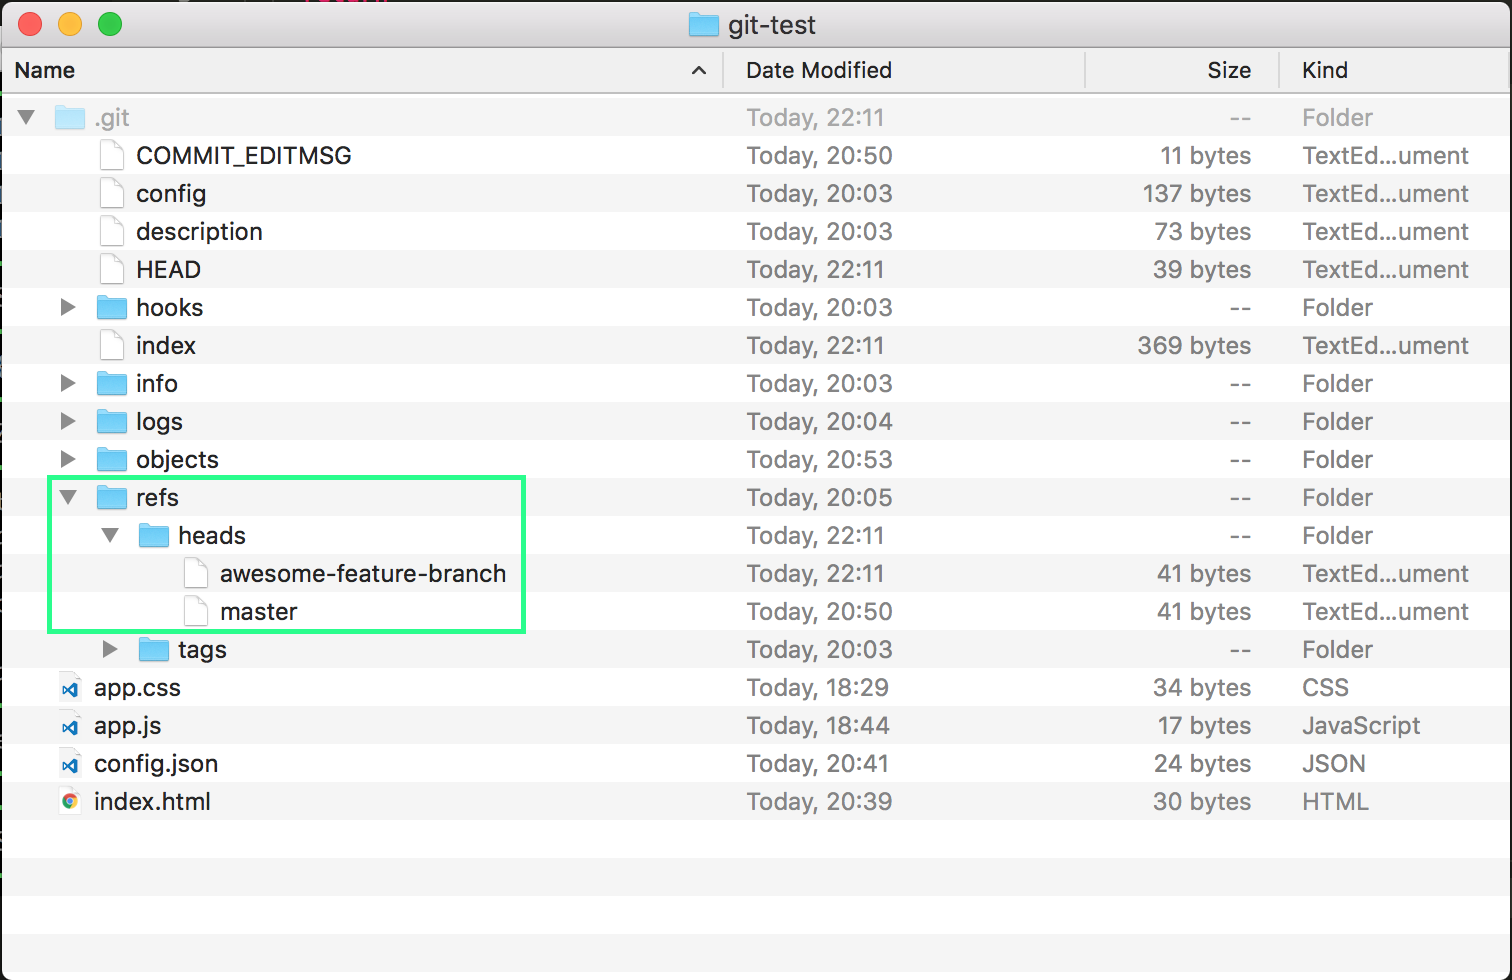
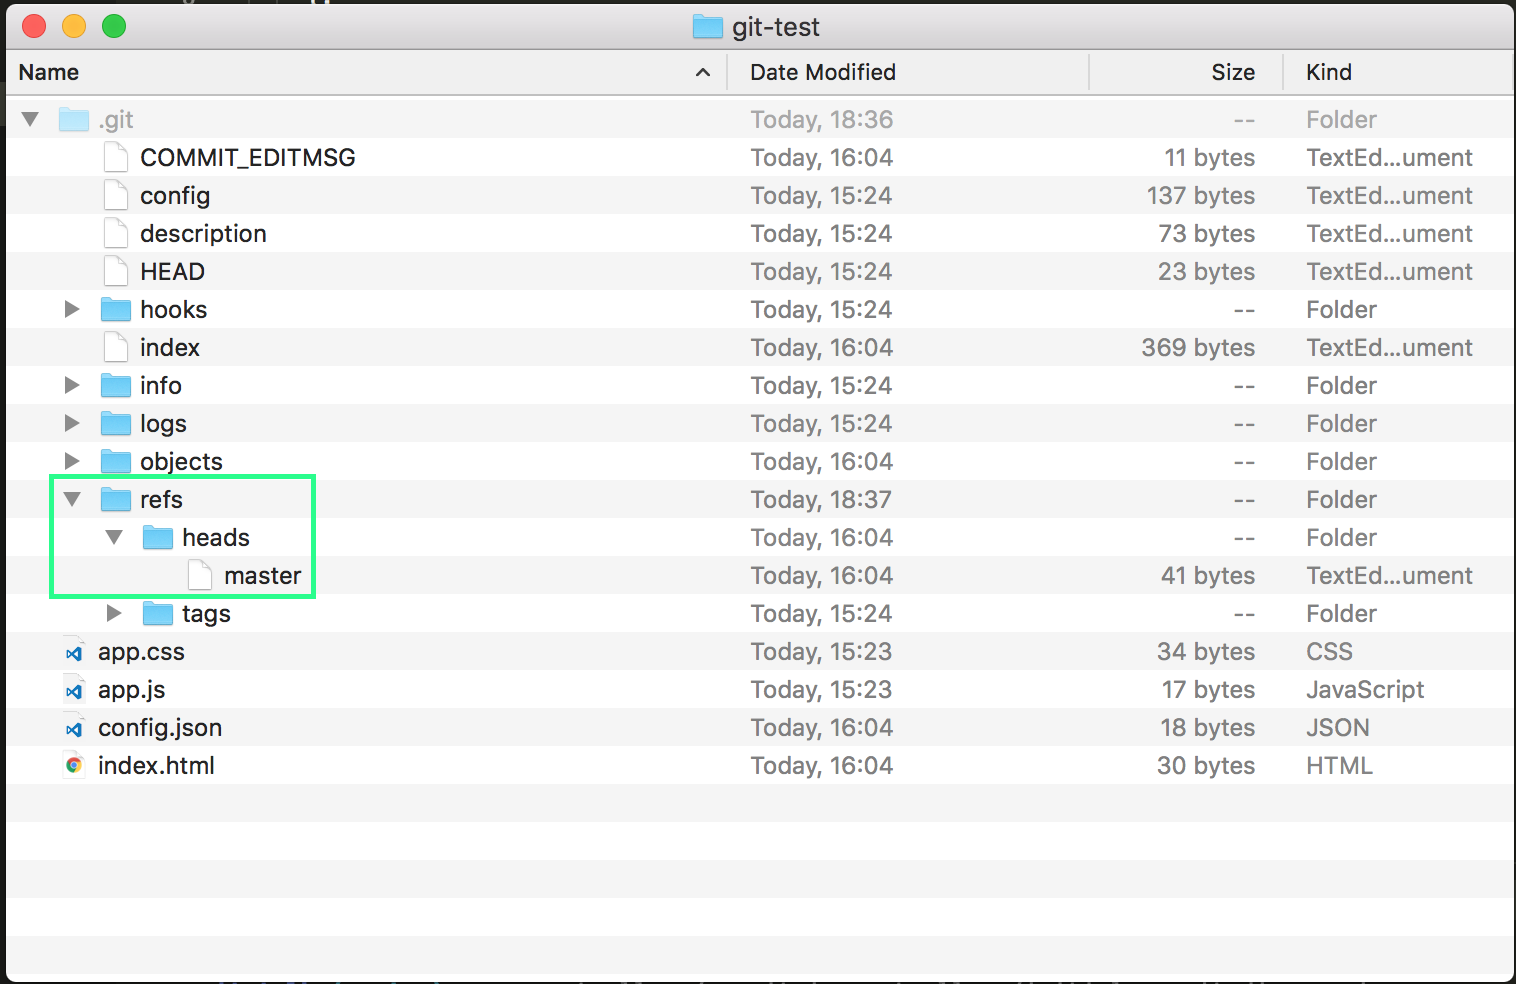
disclaimer

diff --git a/controllers/second-commit.js b/controllers/second-commit.js
@@ -1,0 +1,63 @@
+import Terminal from '../terminal.js';
+
+export default class SecondCommitController {
+
+  constructor() {
+    this.keyEvents = {
+      'ls': this.ls.bind(this),
+      'git status': this.gitStatus.bind(this),
+      'git commit -m': this.commit.bind(this),
+      'git cat-file -p': this.catFile.bind(this),
+      'cat .git/refs/heads/master': this.cat.bind(this),
+    };
+    this.terminal = new Terminal(this.keyEvents);
+    this.keyEvents['git add .'] = this.terminal.showPrompt.bind(this.terminal);
+  }
+
+  ls() {
+    this.terminal.echo(`app.css
+app.js
+config.json
+index.html`);
+  }
+
+  gitStatus() {
+    this.terminal.echo(`On branch master
+Changes not staged for commit:
+  (use "git add <file>..." to update what will be committed)
+  (use "git checkout -- <file>..." to discard changes in working directory)
+
+	<span class="untracked-files">modified:   index.html</span>
+
+Untracked files:
+  (use "git add <file>..." to include in what will be committed)
+
+	<span class="untracked-files">config.json</span>
+
+no changes added to commit (use "git add" and/or "git commit -a")`);
+  }
+
+  commit() {
+    this.terminal.echo(`[master <span class="highlight-pink">e47b459</span>] add config
+ 2 files changed, 2 insertions(+)
+ create mode 100644 config.json`);
+  }
+
+  catFile() {
+    this.terminal.echo(`tree d2310568deb2dd2ce088ac4c83d33dd6335f60d2
+<span class="highlight">parent 28fb86e94befa9a40fddfb0e9ee553ffa6fd0</span>
+author erinz <erin.zimmer@auspost.com.au> 1501930205 +1000
+committer erinz <erin.zimmer@auspost.com.au> 1501930205 +1000
+
+add config`);
+  }
+
+  cat() {
+    this.terminal.echo('e47b4596ba0374e87fd88c2fc46bc4c461e3e383');
+  }
+
+
+  static getTemplate() {
+    return `<div class="terminal"></div>`;
+  }
+}

diff --git a/styles.css b/styles.css
@@ -28,7 +28,8 @@ em {
 }
 
 img {
-  width: 100%;
+  max-width: 100vh;
+  max-height: 75vh;
 }
 
 ol {
@@ -42,24 +43,25 @@ ol {
   border: 2px solid #f2d;
 }
 
-li img {
-  margin-top: 40px;
+.disclaimer {
+  font-size: 2em;
+  border: 4px solid currentColor;
+  padding: 10px;
+  margin: auto;
+  animation: 5s flicker linear forwards;
 }
-
-ol.source-control {
-  position: relative;
-}
-
-li#save {
-  top: 0;
-  position: absolute;
-  transition: top 1s ease-in;
-}
-
-li#collaborate {
-  top: 1000px;
-  position: absolute;
-  transition: top 1s ease-out;
+@keyframes flicker {
+  0%, 10%, 18%, 40%, 90%, 100% {
+    opacity: .99;
+    text-shadow: 2px 2px 5px #0f8, -2px -2px 5px #0f8;
+    box-shadow: 2px 2px 5px #0f8, -2px -2px 5px #0f8,
+                inset 2px 2px 5px #0f8, inset -2px -2px 5px #0f8; 
+  }
+  3%, 17%, 35%, 87%, 99% {
+    opacity: 0.4;
+    text-shadow: none;
+    box-shadow: none;
+  }
 }
 
 .folder {
@@ -68,7 +70,7 @@ li#collaborate {
   background-size: contain;
   background-repeat: no-repeat;
   margin-top: 20px;
-  padding-top: 63%;
+  padding-top: 70vh;
   height: 0;
   position: relative;
   opacity: 0;
@@ -87,8 +89,8 @@ li#collaborate {
   opacity: 0.25;
 }
 
-.folder.colour-in::before {
-  display: block;
+.folder.colour-in {
+  box-shadow: inset 0 0 1000px #0f8;
 }
 
 .folder-label {
@@ -303,15 +305,14 @@ li#collaborate {
 }
 
 .slide-up-ready {
-  position: relative;
-  top: 100vh;
+  margin-top: 100vh;
 }
 .slide-up-animation {
   animation: 1s slide-up ease-out forwards;
 }
 @keyframes slide-up {
   to {
-    top: 0;
+    margin-top: 0;
   }
 }
 

diff --git a/controllers/checkout.js b/controllers/checkout.js
@@ -6,6 +6,22 @@ export default class Checkout {
     this.keyEvents = {
       'git checkout -b': this.checkout.bind(this),
     };
+
+    document.getElementById('content').addEventListener('click', this.showRefs, { once: true });
+  }
+
+  showRefs(event) {
+    event.stopPropagation();
+    const refs = document.getElementById('refs');
+    refs.classList.add('fade-in');
+
+    document.getElementById('content').addEventListener('click', this.showHead, { once: true });
+  }
+
+  showHead(event) {
+    event.stopPropagation();
+    document.getElementById('head').classList.add('fade-in');
+
     this.terminal = new Terminal(this.keyEvents);
   }
 
@@ -15,7 +31,10 @@ export default class Checkout {
   }
 
   static getTemplate() {
-    return `<div class="terminal"></div>
-            <img id="image" class="slide-up-ready" src="images/new-branch.png" />`;
+    return `<div class="images">
+              <img id="refs" class="hiding" src="images/new-branch.png" />
+              <img id="head" class="hiding" src="images/new-branch-head.png" />
+            </div>
+            <div class="terminal"></div>`;
   }
 }

diff --git a/controllers/hashes.js b/controllers/hashes.js
@@ -47,7 +47,7 @@ index.html`);
   }
 
   gitStatus() {
-    this.imageContainer.classList.add('disappear');    
+    document.querySelector('.images').classList.add('disappear');    
     this.terminal.echo(`
 On branch master
 Changes to be committed:
@@ -58,9 +58,12 @@ Changes to be committed:
   }
 
   show(id) {
-    const fadeOutImages = document.querySelectorAll(`img:not([id='${id}'])`);
-    fadeOutImages.forEach(img => img.classList.add('fade-out'));
+    const lastImage = document.querySelector('.fade-in, .slide-down');
+    lastImage.classList.remove('fade-in');
+    lastImage.classList.remove('slide-down');
+    lastImage.classList.add('fade-out');
 
+    document.getElementById(id).classList.remove('hiding');
     document.getElementById(id).classList.add('fade-in');
   }
 

diff --git a/controllers/commit.js b/controllers/commit.js
@@ -52,7 +52,7 @@ initial commit`);
   }
 
   slideImageIn(id) {
-    const image = document.getElementById(id).classList.add('slide-in-animation');
+    document.getElementById(id).classList.add('slide-up-animation');
   }
 
   static getTemplate() {
@@ -60,8 +60,8 @@ initial commit`);
     <div>
       <div class="terminal"></div>
       <div id="images" class="images">
-        <img id="after-commit" class="slide-in-ready" src="images/after-commit.png" />
-        <img id="refs" class="slide-in-ready" src="images/refs.png" />
+        <img id="after-commit" class="slide-up-ready" src="images/after-commit.png" />
+        <img id="refs" class="slide-up-ready" src="images/refs.png" />
       </div>
     </div>  
     <button class="show-button" id="show-pic-button">+</button>`;

diff --git a/pages.js b/pages.js
@@ -11,8 +11,8 @@ export default [
           content: '<h1><em>git.</em> wtf is it doing, anyway?</h1>',
         },
         {
-          hash: '#source_control',
-          controller: SourceControlController,
+          hash: '#disclaimer',
+          content: '<div class="disclaimer">DISCLAIMER</div>',
         },
         {
           hash: '#repo',
